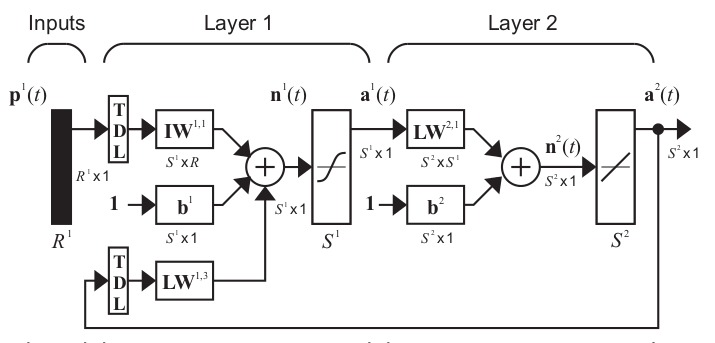
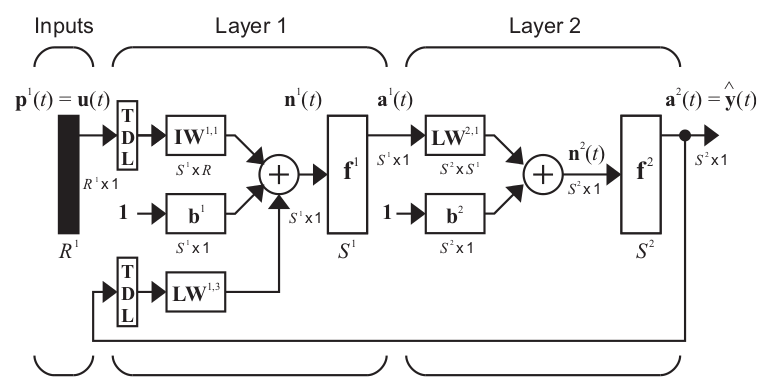
NARX text almost finished

diff --git a/neuralnetworks/artificial/narx.tex b/neuralnetworks/artificial/narx.tex
@@ -1,30 +1,54 @@
 
 \label{subsec:ANN:NARX}
 
+The nonlinear autoregressive network with exogenous inputs (NARX) is a recurrent dynamic network; \ie, it has feedback connections. 
 Based on the linear ARX models, NARX ones have been demonstrated 
-suitable for modeling nonlinear systems. Its defining general 
-equation is
-\begin{equation}
-\begin{split}
-y(t) &=f(y(t-1),y(t-2),...,y(t-n_{a}), \\
-&x(t-n_{k}),x(t-(n_{k}+1)),...,x(t-(n_{k}+n_{b})))
-\end{split}
-\end{equation}
-where the next value of the dependent output signal $y(t)$ is 
-regressed on the $n_{a}$ previous values of the same output signal 
-and $n_{b}$ previous values of the independent exogenous input 
-signal $x(t)$. The prediction horizon $n_{k}$ is defined as the 
-shift among corresponding input and output values so that current 
-input is used for predicting the output in $n_{k}$ time steps in the 
-future. The unique dissimilarity with the ARX models lies in the 
-non-linearity of the function $f$. \figref{narx} shows a schematic
-version of a NARX network.
+suitable for modeling nonlinear systems and specially time series. 
+
+The simplest NARX network consists on a feedforward neural network with a first TDL at the input 
+plus a delayed connexion from the output to the input layer (a second TDL). 
+\figref{narx} shows a schematic version of this NARX network.
 
 \begin{figure}[!ht]
 \centering
 \includegraphics[width=\textwidth]{images/narx.png}
 \caption{NARX network}
 \label{fig:narx}
+\end{figure}
+
+The defining general equation of an one-step-ahead ARX model is
+% \begin{equation}
+% \begin{split}
+% y(t) =f(y(t-1),y(t-2),...,y(t-n_{y}), \\
+% u(t-n_{k}),u(t-(n_{k}+1)),...,u(t-(n_{k}+n_{u})))
+% \end{split}
+% \end{equation}
+\begin{equation}
+\hat{y}(t) =f(\hat{y}(t-1),\hat{y}(t-2),...,\hat{y}(t-d_{y}), u(t-1),u(t-2),...,u(t-d_{u}))
+\end{equation}
+where the value of the dependent output signal $\hat{y}(t)$ is 
+regressed on the $d_{y}\geq1$ previous values of the same output signal 
+and $d_{u}\geq0$ previous values of the independent exogenous input 
+signal $u(t)$ \cite{lin1996learning}. 
+The unique dissimilarity between ARX and NARX models lies in the linearity of the function $f$. 
+Thus, in the NARX neural network of \figref{narx}, 
+$f$ is a combination of the non-linear activation functions $\mathbf{f}^1$ and $\mathbf{f}^2$.
+
+%The prediction horizon $n_{k}$ is defined as the shift among corresponding input and output values so that current input is used for predicting the output in $n_{k}$ time steps in the future.
+
+In what concern training a NARX network the named \emph{Backpropagation Through Time} version of the backpropagation algorithm can be used (read \subsecref{bptt}). The process can be carried out in one out of the two modes shown in \figref{narxtrainingarch} \cite{menezes2008long}: 
+\begin{itemize}
+	\item Parallel architecture, 
+	where the output $\hat{y}(t)$ is fed back to the input of the feedforward neural network as part of the standard NARX architecture.
+	\item Series-parallel architecture, 
+	in which the true output $y(t)$ -well-known target output- is used instead of feeding back the estimated output $\hat{y}(t)$.
+\end{itemize}
+
+\begin{figure}[!ht]
+\centering
+\includegraphics[width=\textwidth]{images/narxTrainingArchitectures.png}
+\caption{NARX network training architectures}
+\label{fig:narxtrainingarch}
 \end{figure}
 
 

diff --git a/neuralnetworks/artificial/artificialnn.tex b/neuralnetworks/artificial/artificialnn.tex
@@ -157,7 +157,7 @@ $\mathbf{a}^3$ can be written as:
 It is important to highlight that, when implementing ANNs, the first layer is called \emph{input layer}, the last one \emph{output layer} and all the intermediate ones are known as \emph{hidden layers}. 
 %When there is no hidden layers, it is said that the net is a one-layer network. This way, two-layers networks will denote a net with a unique hidden layer. The reason of this is that the weigths of the input layer are usually fixed to $w=1$.
 
-Now, if one looks at \figref{neuralnetworkmodel}, it is noticed that the network drawn has no feedback elements and contains no delays in the input layer. This kind of networks are known as \emph{static feedforward} nets, in which the output is calculated
+Now, if one looks at \figref{neuralnetworkmodel}, it is noticed that the network drawn has no feedback elements and contains no delays in any layer. This kind of networks are known as \emph{static feedforward} nets, in which the output is calculated
 directly from the input through feedforward connections. 
 In the others, classified as \emph{dynamic} nets,
 the output depends not only on the current input to the network, but also on the previous inputs (\emph{feedforward-dynamic}) and  outputs (\emph{recurrent-dynamic}) \cite{dimith3neural}.

diff --git a/neuralnetworks/artificial/backpropagation.tex b/neuralnetworks/artificial/backpropagation.tex
@@ -2,8 +2,14 @@
 \label{sec:generalbackprop}
 
 
-
 Since our experimental scenario considers a target output (the pain curve described in \secref{paincurve}), we have focused in the subset of supervised training algorithms. 
-Among the available learning rules of this type, the \emph{backpropagation} algorithms has been the centre of our attention. 
+Next sections explained the rules of the backpropagation algorithm as well as its versions for the different architectures of ANNs described in \secref{topologies}:
 
-\subsection{Backpropagation}
+\subsection{Static backpropagation algorithm}
+\label{subsec:staticbackprop}
+
+\subsection{Backpropagation through time}
+\label{subsec:bptt}
+
+\subsection{Backpropagation for spiking neural networks}
+\label{subsec:snnbackprop}

diff --git a/neuralnetworks/artificial/perceptron.tex b/neuralnetworks/artificial/perceptron.tex
@@ -21,6 +21,11 @@ $S$ perceptron neurons connected to $R$ inputs through a set of weights $\mathbf
 \label{fig:perceptron}
 \end{figure}
 
+When more than one multiple-perceptron neurons layers are connected, a static feedforward network as the one shown in \figref{neuralnetworkmodelVectorial} is built. 
+This topology is called multi-layer perceptron (MLP) and can be trained with the backpropagation algorithm described in \subsecref{staticbackprop}. 
+It is known to be a powerful function approximator for prediction and classification problems and it is one of the most commonly used and well-studied ANN architecture.
+
+
 \subsubsection{Perceptron learning rule}
 \label{subsubsec:percpetrontraining}
 

diff --git a/glossary.tex b/glossary.tex
@@ -7,10 +7,12 @@
 \item[\textbf{ECG}] ElectroCardioGram
 \item[\textbf{EDA}] ElectroDermal Activity
 \item[\textbf{HR}] Heart Rate
+\item[\textbf{MLP}] Multi-Layer Perceptron
 \item[\textbf{NARX}] Nonlinear AutoRegressive with eXogenous input
 \item[\textbf{PPG}] PhotoPlesthymoGram
 \item[\textbf{SNN}] Spiking Neural Network
 \item[\textbf{SpO2}] 
+\item[\textbf{TDL}] Tap Delay Line
 \item[\textbf{TDNN}] Time Delay Neural Network
 \item[\textbf{WBSN}] Wireless Body Sensor Network
 

diff --git a/main.tex b/main.tex
@@ -62,6 +62,7 @@
 \hyphenation{WBSNs}
 \hyphenation{des-cribed}
 \hyphenation{know-ledge}
+\hyphenation{Never-theless}
 
 %% INICIO DOCUMENTO
 \begin{document}
@@ -139,6 +140,7 @@ bla...
 \section{Artificial Neural Networks}
 \input{neuralnetworks/artificial/artificialnn}
 \section{Topologies of Artificial Neural Networks}
+\input{neuralnetworks/artificial/topologies}
 	\subsection{Perceptron}
 	\input{neuralnetworks/artificial/perceptron}
 	\subsection{Time Delay Neural Networks}

diff --git a/neuralnetworks/artificial/topologies.tex b/neuralnetworks/artificial/topologies.tex
@@ -1,0 +1,6 @@
+\label{sec:topologies}
+
+There is a wide set of ANNs architectures.
+Since our final aim is to forecast a time series,
+the following sections are focused on those network topologies suitable for this purpose. 
+Nonetheless, in order to better understand the building process of each architecture, we explain firstly the \emph{Perceptron} topology, which is the simplest structure.
